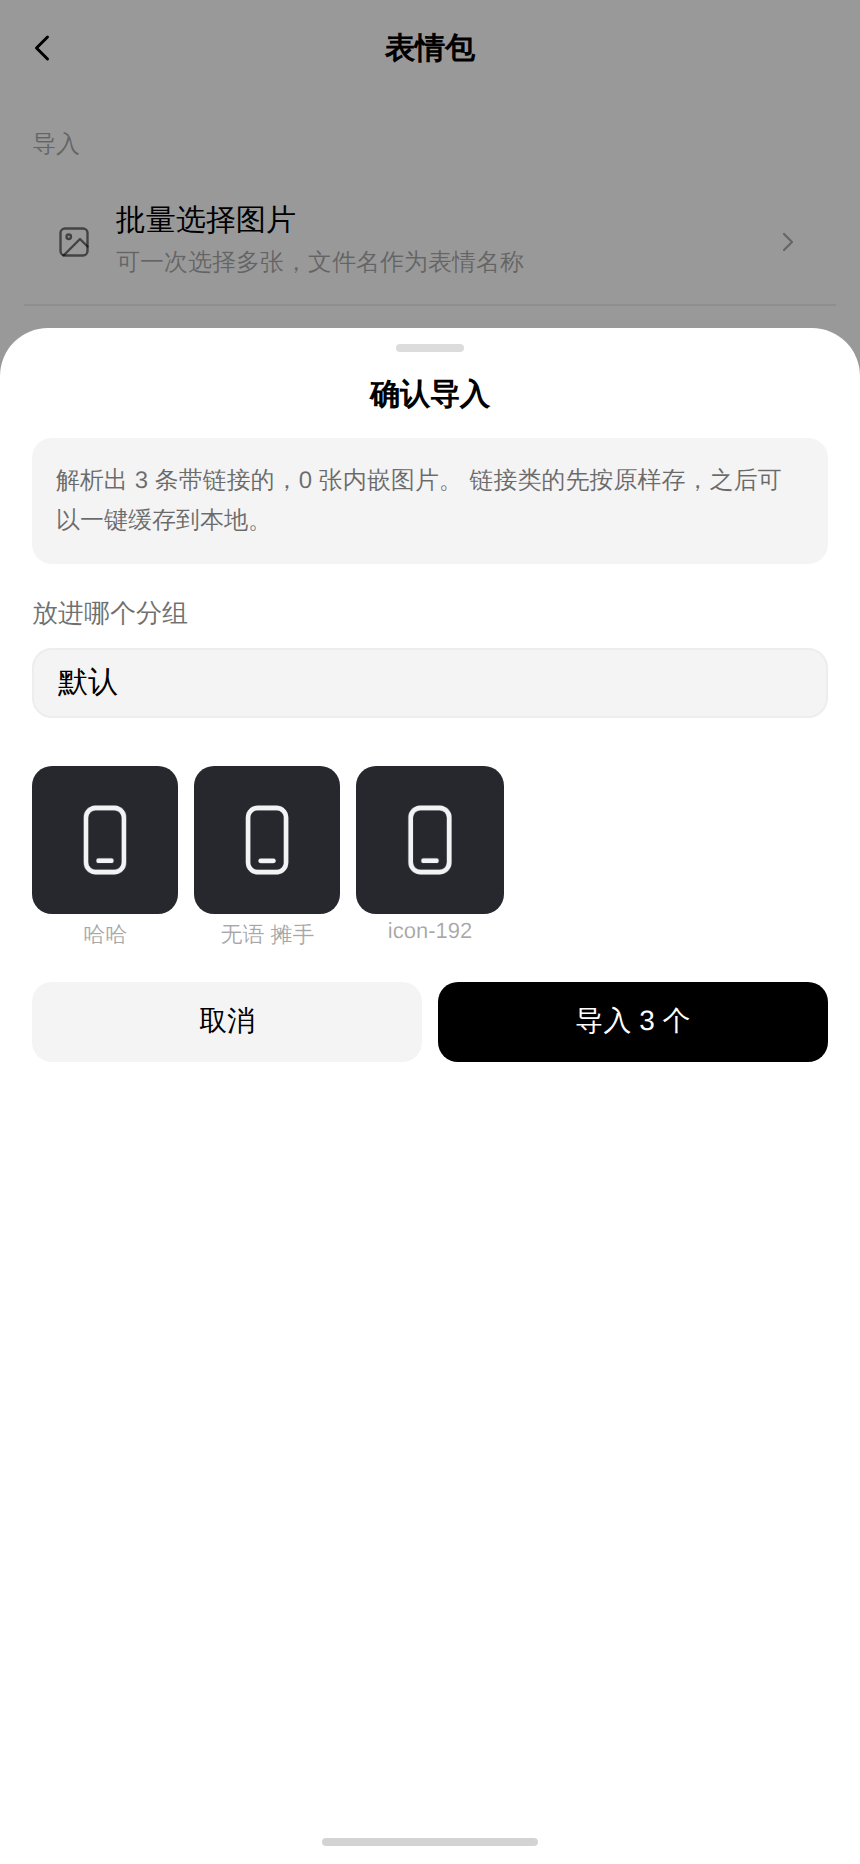
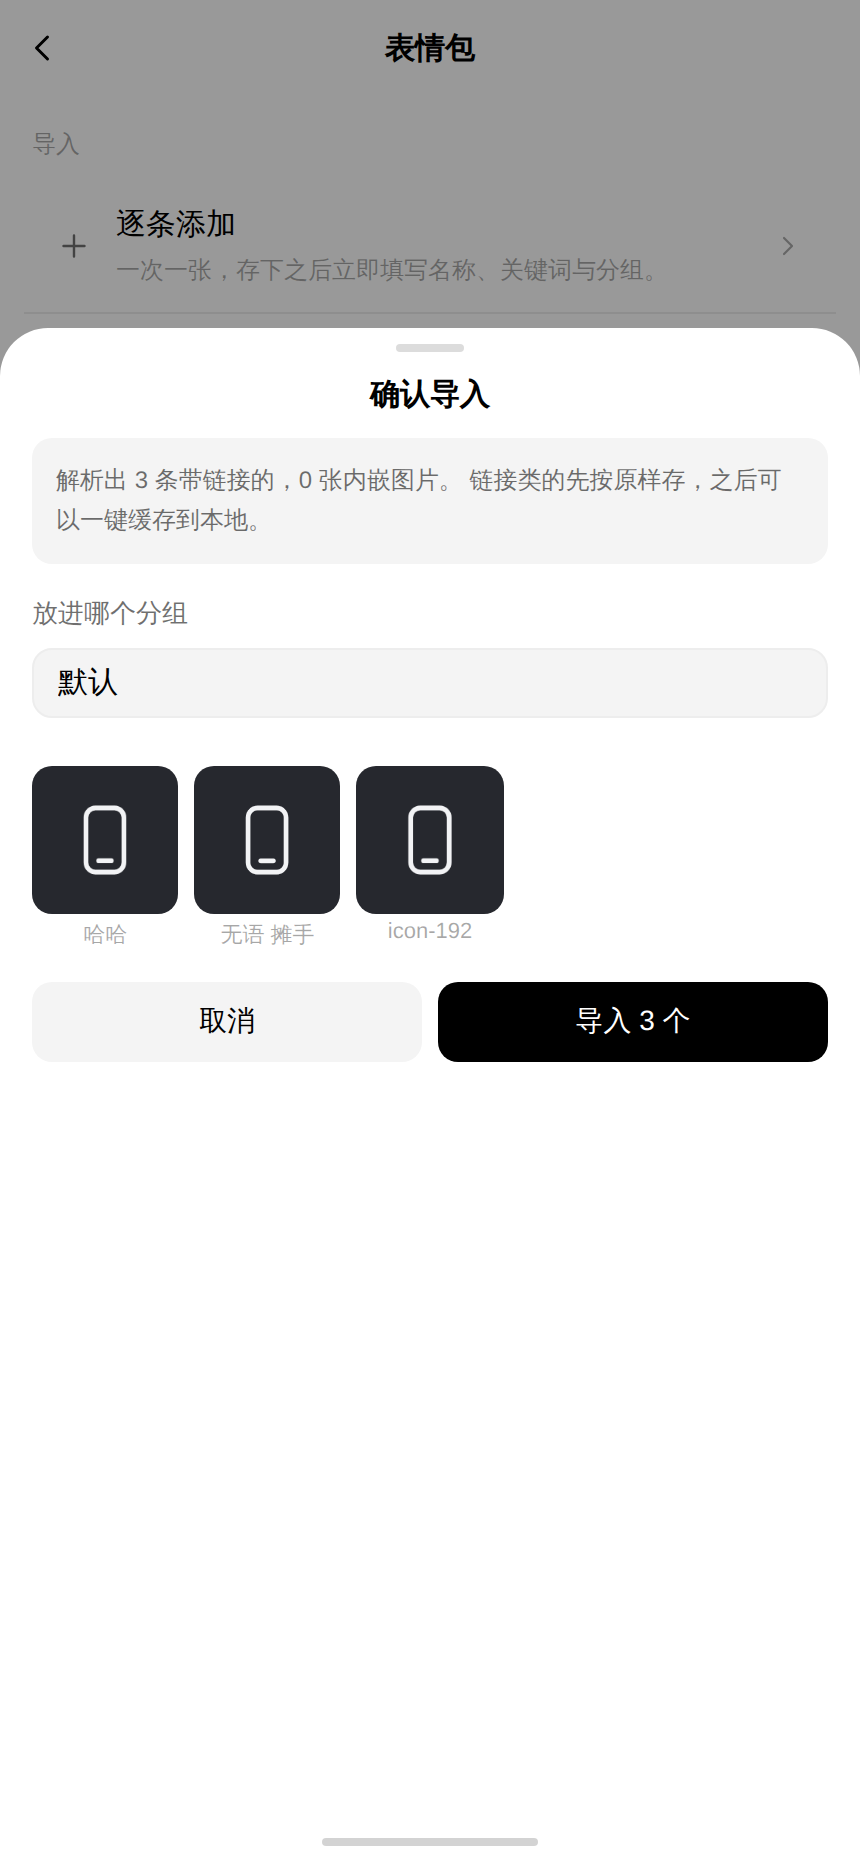
表情包：自己新建分组、逐条上传、粘贴导入
分组本来是从表情身上折出来的：谁的 group 字段写着什么，就有哪几个组。
折出来的东西有一个毛病 —— 空的组不存在，想先建一个再往里放，建完那一下
屏幕上什么也没发生。所以自己建的那几个名字单独存一份（settings.
stickerGroups），列出来时两边取并集。

- 新建分组：管理页上单列一项。空分组照样列出来，写明还是空的。
  每个分组标题上给了加号、改名、删除三个键。
- 逐条添加：一次一张，存下之后当场打开那一条的编辑面板 —— 一条一条传的
  意思正是每一条都要单独取名、单独配关键词。按某个分组上的加号就传进
  那个分组。
- 粘贴导入：直接粘贴图片，或粘贴每行一条的链接。前面三条路都要先有一个
  文件，而手上常常只有剪贴板里的东西。
- 发送面板上只列真的有表情的分组：空分组是管理页上的半成品，摆在那里
  点进去只有一片空白。

Claude-Session: https://claude.ai/code/session_01M3XFM6pK559Bocs5BHASj4

diff --git a/src/apps/chat/pages/StickerManager.js b/src/apps/chat/pages/StickerManager.js
@@ -1,10 +1,61 @@
 import { html, useState, useRef } from '../../../lib.js';
 import { phone, useStore } from '../../../sdk/index.js';
-import { Page, List, ListItem, Field, Input, Button, Icon, Sheet,
-         EmptyState, Spinner, toast, confirm, prompt } from '../../../ui/index.js';
+import { Page, List, ListItem, Field, Input, Textarea, Button, Icon, Sheet,
+         EmptyState, toast, confirm, prompt } from '../../../ui/index.js';
 import { StickerImg } from './StickerBits.js';
 
 const { db, nav, stickers: api } = phone;
+
+// 粘贴进来的那一份。
+//
+// 前面三条路都要**先有一个文件**：选图、txt、docx。可手上常常只有
+// 剪贴板里的东西 —— 从聊天软件里复制的一张图，或者别处抄来的一串链接。
+// 为此专门存一个文件再导入是多绕一圈，所以这里直接收剪贴板。
+//
+// 两样都收：贴进来的图片当场收下，贴进来的文字按 txt 那套规则逐行解析。
+function PastePane({ onParsed, onCancel }) {
+  const [text, setText] = useState('');
+  const [blobs, setBlobs] = useState([]);
+
+  const onPaste = e => {
+    const files = [...(e.clipboardData?.files || [])].filter(f => /^image\//.test(f.type));
+    if (!files.length) return;
+    e.preventDefault();
+    setBlobs(list => [...list, ...files.map((f, i) => ({
+      name: (f.name || '').replace(/\.\w+$/, '') || `粘贴的图片 ${list.length + i + 1}`,
+      blob: f,
+    }))]);
+  };
+
+  const go = () => {
+    const rows = api.parseText(text);
+    if (!rows.length && !blobs.length) {
+      toast('没有解析出内容。请粘贴图片，或每行粘贴一个图片链接', 'error', 4000);
+      return;
+    }
+    onParsed({ rows, blobs });
+  };
+
+  return html`
+    <${Sheet} open=${true} onClose=${onCancel} title="粘贴导入" height="70%">
+      <div class="hint-box">
+        直接粘贴图片即可收下；粘贴文字时每行一条，格式与 txt 导入相同：
+        名称|链接、名称 链接，或仅链接。
+      </div>
+      <${Field} label="粘贴处">
+        <${Textarea} rows=${6} value=${text} onPaste=${onPaste}
+          onInput=${setText} placeholder="在此粘贴图片或链接"/>
+      <//>
+      ${blobs.length ? html`
+        <div class="pad-x">
+          <div class="field-desc">已收下 ${blobs.length} 张图片。</div>
+        </div>` : null}
+      <div class="sheet-acts">
+        <${Button} variant="ghost" onClick=${onCancel}>取消<//>
+        <${Button} onClick=${go}>下一步<//>
+      </div>
+    <//>`;
+}
 
 function Review({ rows, blobs, onDone, onCancel }) {
   const [group, setGroup] = useState(api.DEFAULT_GROUP);
@@ -61,14 +112,46 @@ function Review({ rows, blobs, onDone, onCancel }) {
 
 export function StickerManager() {
   useStore(db.stickers.store);
+  useStore(db.settings.store);
   const [pending, setPending] = useState(null);
+  const [pasting, setPasting] = useState(false);
   const [editing, setEditing] = useState(null);
   const [caching, setCaching] = useState(null);
   const imgRef = useRef(null);
   const fileRef = useRef(null);
+  const oneRef = useRef(null);
+  // 「逐条添加」要传进哪个分组。按下哪个组的加号就是哪个
+  const intoRef = useRef(api.DEFAULT_GROUP);
 
   const groups = api.groups();
   const remote = db.stickers.where(s => s.url && !s.imageId);
+
+  // 一次一张。传完当场打开那一条的编辑面板 —— 一条一条传的意思正是
+  // 每一条都要单独取名、单独配关键词，传完还要回列表里找一遍是多绕一圈
+  const pickOne = async e => {
+    const file = e.target.files?.[0];
+    e.target.value = '';
+    if (!file) return;
+    try {
+      const row = await api.addFromBlob({
+        name: (file.name || '').replace(/\.\w+$/, ''),
+        blob: file,
+        group: intoRef.current || api.DEFAULT_GROUP,
+      });
+      setEditing(row);
+    } catch (err) {
+      toast('这张没有存下来：' + (err.message || err), 'error', 5000);
+    }
+  };
+
+  const addOneTo = g => { intoRef.current = g; oneRef.current?.click(); };
+
+  const newGroup = async () => {
+    const name = await prompt({ title: '新建分组', placeholder: '分组名' });
+    const g = api.addGroup(name);
+    if (!g) return;
+    toast(`已新建分组「${g}」`, 'ok');
+  };
 
   // 批量选图
   const pickImages = async e => {
@@ -112,13 +195,32 @@ export function StickerManager() {
 
   const wipeGroup = async g => {
     const list = api.inGroup(g);
-    if (!await confirm({ title: `删除分组「${g}」`, message: `该分组下的 ${list.length} 个表情将一并删除。`, danger: true })) return;
+    if (!await confirm({
+      title: `删除分组「${g}」`,
+      message: list.length ? `该分组下的 ${list.length} 个表情将一并删除。` : '该分组下没有表情。',
+      danger: true,
+    })) return;
     list.forEach(s => { if (s.imageId) db.images.remove(s.imageId); db.stickers.remove(s.id); });
+    api.removeGroup(g);
+  };
+
+  const renameGroup = async g => {
+    const name = await prompt({ title: '重命名分组', value: g, placeholder: '分组名' });
+    if (!name || name.trim() === g) return;
+    api.renameGroup(g, name);
   };
 
   return html`
     <${Page} title="表情包" onBack=${nav.pop}>
       <${List} title="导入">
+        <${ListItem} title="逐条添加" multiline
+          subtitle="一次一张，存下之后立即填写名称、关键词与分组。" arrow
+          left=${html`<${Icon} name="plus" size=${18}/>`}
+          onClick=${() => addOneTo(api.DEFAULT_GROUP)}/>
+        <${ListItem} title="粘贴导入" multiline
+          subtitle="直接粘贴图片，或粘贴每行一条的图片链接，不必先存成文件。" arrow
+          left=${html`<${Icon} name="copy" size=${18}/>`}
+          onClick=${() => setPasting(true)}/>
         <${ListItem} title="批量选择图片" subtitle="可一次选择多张，文件名作为表情名称" arrow
           left=${html`<${Icon} name="image" size=${18}/>`}
           onClick=${() => imgRef.current?.click()}/>
@@ -131,6 +233,14 @@ export function StickerManager() {
           left=${html`<${Icon} name="book" size=${18}/>`}
           onClick=${() => fileRef.current?.click()}/>
       <//>
+      <${List} title="分组">
+        <${ListItem} title="新建分组" multiline
+          subtitle="先建一个空分组，再把表情放进去。分组名也可以在导入时直接填写。" arrow
+          left=${html`<${Icon} name="folder" size=${18}/>`}
+          onClick=${newGroup}/>
+      <//>
+
+      <input type="file" accept="image/*" ref=${oneRef} onChange=${pickOne} style="display:none"/>
       <input type="file" accept="image/*" multiple ref=${imgRef} onChange=${pickImages} style="display:none"/>
       <input type="file" accept=".txt,.docx,text/plain" ref=${fileRef} onChange=${pickFile} style="display:none"/>
 
@@ -145,24 +255,36 @@ export function StickerManager() {
             ${caching ? `缓存中 ${caching.done}/${caching.total}` : '全部缓存到本地'}<//>
         </div>` : null}
 
-      ${db.stickers.count() ? groups.map(g => {
+      ${groups.length ? groups.map(g => {
         const list = api.inGroup(g);
         return html`
           <div key=${g} class="list-wrap">
             <div class="list-title stk-group-head">
               <span>${g} · ${list.length}</span>
-              <button class="press" onClick=${() => wipeGroup(g)}>
-                <${Icon} name="trash" size=${14}/></button>
+              <span class="stk-group-acts">
+                <button class="press" aria-label=${`往「${g}」里添加`}
+                  onClick=${() => addOneTo(g)}><${Icon} name="plus" size=${14}/></button>
+                <button class="press" aria-label=${`重命名「${g}」`}
+                  onClick=${() => renameGroup(g)}><${Icon} name="edit" size=${14}/></button>
+                <button class="press" aria-label=${`删除「${g}」`}
+                  onClick=${() => wipeGroup(g)}><${Icon} name="trash" size=${14}/></button>
+              </span>
             </div>
-            <div class="stk-grid stk-manage">
-              ${list.map(s => html`
-                <button key=${s.id} class="stk-cell press" onClick=${() => setEditing(s)} title=${s.name}>
-                  <${StickerImg} sticker=${s}/>
-                </button>`)}
-            </div>
+            ${list.length ? html`
+              <div class="stk-grid stk-manage">
+                ${list.map(s => html`
+                  <button key=${s.id} class="stk-cell press" onClick=${() => setEditing(s)} title=${s.name}>
+                    <${StickerImg} sticker=${s}/>
+                  </button>`)}
+              </div>`
+            : html`<div class="settings-foot">这个分组还是空的。按上面的加号逐条添加。</div>`}
           </div>`;
       }) : html`<${EmptyState} icon="heart" title="暂无表情包"
-        desc="可通过以上三种方式导入。导入前需确认内容并指定分组。"/>`}
+        desc="可逐条添加、粘贴导入，或批量选择图片。导入前需确认内容并指定分组。"/>`}
+
+      ${pasting ? html`
+        <${PastePane} onCancel=${() => setPasting(false)}
+          onParsed=${p => { setPasting(false); setPending(p); }}/>` : null}
 
       ${pending ? html`
         <${Review} rows=${pending.rows} blobs=${pending.blobs}
@@ -190,10 +312,10 @@ export function StickerManager() {
                 <button key=${g} class=${`chip${editing.group === g ? ' is-active' : ''}`}
                   onClick=${() => { db.stickers.update(editing.id, { group: g }); setEditing({ ...editing, group: g }); }}>${g}</button>`)}
               <button class="chip" onClick=${async () => {
-                const name = await prompt({ title: '新建分组' });
-                if (!name) return;
-                db.stickers.update(editing.id, { group: name.trim() });
-                setEditing({ ...editing, group: name.trim() });
+                const g = api.addGroup(await prompt({ title: '新建分组' }));
+                if (!g) return;
+                db.stickers.update(editing.id, { group: g });
+                setEditing({ ...editing, group: g });
               }}>新建</button>
             </div>
           <//>

diff --git a/src/system/stickers.js b/src/system/stickers.js
@@ -1,4 +1,4 @@
-import { stickers, images } from './db/index.js';
+import { stickers, images, settings } from './db/index.js';
 import { readZip } from './unzip.js';
 
 export const DEFAULT_GROUP = '默认';
@@ -135,8 +135,56 @@ export function suggest(text, limit = 12) {
   return scored.sort((a, b) => a[0] - b[0] || a[1] - b[1]).slice(0, limit).map(x => x[2]);
 }
 
-export function groups() {
+// ---- 分组 ----
+//
+// 分组本来是**从表情身上折出来的**：谁的 group 字段写着什么，就有哪几个组。
+// 折出来的东西有一个毛病 —— **空的组不存在**。想先建一个组、再往里放几个，
+// 建完那一下屏幕上什么也没发生，因为组里还没有表情，它就折不出来。
+//
+// 所以自己建的那几个名字单独存一份（settings.stickerGroups），列出来时
+// 两边取并集。表情自带的那些不必存：它们本来就折得出来，存了反而要管两处。
+
+const saved = () => (settings.get().stickerGroups || [])
+  .map(x => String(x || '').trim()).filter(Boolean);
+
+/** 建一个空分组。已经有了就当建过，返回规范化之后的名字。 */
+export function addGroup(name) {
+  const g = String(name || '').trim().slice(0, 20);
+  if (!g) return '';
+  const list = saved();
+  if (!list.includes(g) && g !== DEFAULT_GROUP) settings.set({ stickerGroups: [...list, g] });
+  return g;
+}
+
+/** 把这个名字从自己建的那一份里划掉。组里的表情由调用方处置。 */
+export function removeGroup(name) {
+  const g = String(name || '').trim();
+  const list = saved();
+  if (list.includes(g)) settings.set({ stickerGroups: list.filter(x => x !== g) });
+}
+
+/** 改名。组里的表情跟着走，自己建的那一份里也改掉。 */
+export function renameGroup(from, to) {
+  const a = String(from || '').trim();
+  const b = String(to || '').trim().slice(0, 20);
+  if (!a || !b || a === b) return a;
+  inGroup(a).forEach(s => stickers.update(s.id, { group: b }));
+  const list = saved();
+  if (list.includes(a) || a !== DEFAULT_GROUP) {
+    settings.set({ stickerGroups: [...new Set([...list.filter(x => x !== a), b])] });
+  }
+  return b;
+}
+
+/**
+ * 列出分组。
+ *
+ * `onlyUsed` 为真时只给真的有表情的那几个 —— 发送面板上摆一个空标签页，
+ * 点进去什么也没有，那是管理页才该看见的东西。
+ */
+export function groups({ onlyUsed = false } = {}) {
   const set = new Set(stickers.all().map(s => (s.group || '').trim() || DEFAULT_GROUP));
+  if (!onlyUsed) saved().forEach(g => set.add(g));
   return [...set].sort((a, b) => a === DEFAULT_GROUP ? -1 : b === DEFAULT_GROUP ? 1 : a.localeCompare(b, 'zh'));
 }
 

diff --git a/src/system/db/defaults.js b/src/system/db/defaults.js
@@ -150,6 +150,11 @@ export const DEFAULT_SETTINGS = {
   // 见 ai/translate.js
   translateFormats: '',
 
+  // 表情包的分组名。分组本来是从表情身上折出来的（谁的 group 写着什么），
+  // 但那样**空分组不存在** —— 先建一个空组再往里放，建完什么也没发生。
+  // 所以自己建的那几个单独存一份，两边取并集。见 system/stickers.js
+  stickerGroups: [],
+
   // 角色把你发的照片存进自己相册时，按它写的那句话去裁。
   // **会多打一次识图接口**，所以默认关（第 15 条，登记在 ai/cost.js）
   cropKeptPhoto: false,

diff --git a/index.html b/index.html
@@ -7,7 +7,7 @@
 <!-- 构建号。和 src/version.js 里的必须一致，由 scripts/check-build.mjs 拦着。
      HTML 比 js 子资源更容易被浏览器重新验证，所以拿它当「真实版本」，
      启动时和 version.js 一比就知道缓存里的 js 是不是旧的。见 src/main.js -->
-<meta name="build" content="2026-09-21.72">
+<meta name="build" content="2026-09-21.73">
 <meta name="theme-color" content="#F2F3F5" media="(prefers-color-scheme: light)">
 <meta name="theme-color" content="#0D0E10" media="(prefers-color-scheme: dark)">
 <meta name="mobile-web-app-capable" content="yes">

diff --git a/src/apps/chat/pages/StickerPanel.js b/src/apps/chat/pages/StickerPanel.js
@@ -7,7 +7,9 @@ const { db, nav, stickers: api } = phone;
 
 export function StickerPanel({ onSend }) {
   useStore(db.stickers.store);
-  const groups = api.groups();
+  // 面板上只列真的有表情的分组。空分组是管理页上的半成品，摆在这里
+  // 只会让人点进去看见一片空白
+  const groups = api.groups({ onlyUsed: true });
   const [group, setGroup] = useState(groups[0] || api.DEFAULT_GROUP);
   const list = api.inGroup(groups.includes(group) ? group : (groups[0] || group));
 

diff --git a/styles/app.css b/styles/app.css
@@ -605,6 +605,7 @@ input[type="range"] {
 
 .stk-group-head { display: flex; align-items: center; justify-content: space-between; }
 .stk-group-head button { color: var(--text-3); display: flex; padding: var(--sp-1); }
+.stk-group-acts { display: flex; align-items: center; gap: var(--sp-1); }
 .stk-edit-preview { display: flex; justify-content: center; padding: var(--sp-3) 0 var(--sp-4); }
 .stk-edit-preview .stk-img, .stk-edit-preview .stk-miss { width: 96px; height: 96px; }
 

diff --git a/src/version.js b/src/version.js
@@ -2,4 +2,4 @@
 // （scripts/check-build.mjs 会拦）。
 // 无构建方案没有文件指纹，手机上很容易还在跑缓存里的旧代码；
 // 有这一行就能一眼看出屏幕上的到底是哪一版。
-export const BUILD = '2026-09-21.72';
+export const BUILD = '2026-09-21.73';
